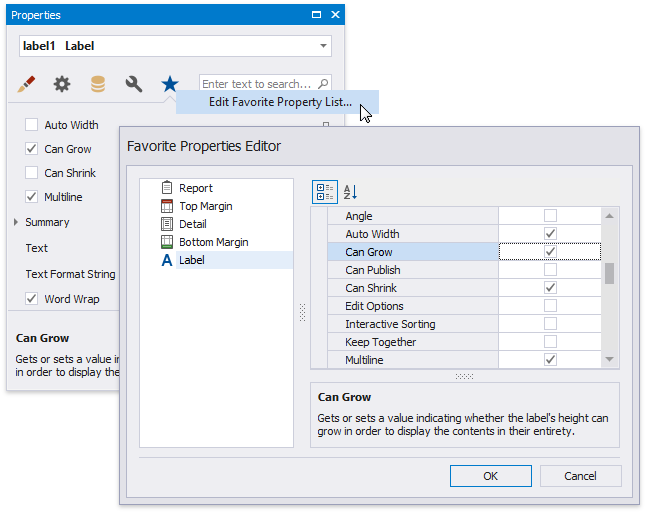
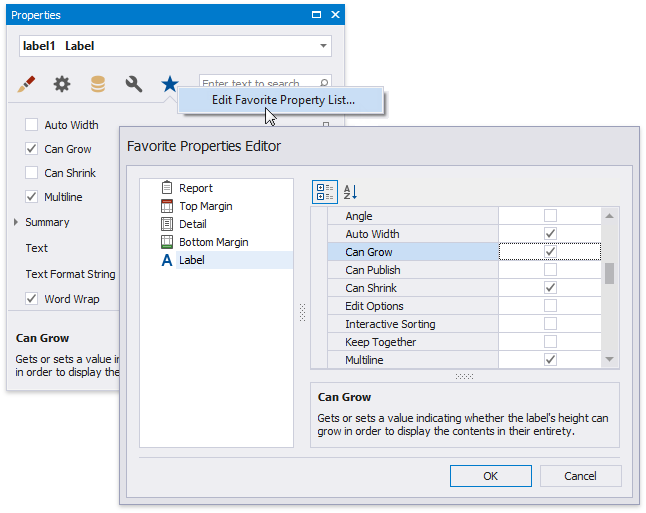
Update description

Changed region(s): [[0.2786, 0.1559, 0.6192, 0.2495], [0.2477, 0.1871, 0.2786, 0.2183]]

diff --git a/interface-elements-for-desktop/articles/report-designer/report-designer-for-winforms/report-designer-tools/ui-panels/property-grid-non-tabbed-view.md b/interface-elements-for-desktop/articles/report-designer/report-designer-for-winforms/report-designer-tools/ui-panels/property-grid-non-tabbed-view.md
@@ -7,9 +7,18 @@ The **Property Grid** allows you to access and customize report/report element s
 
 ![WinFormsPropertyGrid-Tabs](../../../../../images/eurd-win-property-grid-nontabbed-view.png)
 
-See the [Property Grid (Tabbed View)](property-grid-tabbed-view.md) topic if your Property Grid arranges properties in tabs.
+## Select a Report Element
 
-![WinFormsPropertyGrid-Tabs](../../../../../images/eurd-win-PropertyGrid-Tabs.png)
+Perform one of the following actions to select an element and show its properties in the Property Grid:
+
+* Select an element in the drop-down list at the top of the Property Grid.
+
+	![WinFormsPropertyGrid-SelectControl](../../../../../images/eurd-win-PropertyEditor-SelectControl.png)
+
+* Click an element in the [design surface](../../first-look-at-the-report-designer.md).
+* Select an element in the [Report Explorer](report-explorer.md).
+
+## Categorized and Alphabetical Modes
 
 You can switch between categorized and alphabetical modes.
 
@@ -23,16 +32,9 @@ You can switch between categorized and alphabetical modes.
 
     ![Alphabetical-Mode](../../../../../images/eurd-win-propertygrid-nontabbed-alphabetical.png)
 
-## Select a Report Element
+See the [Property Grid (Tabbed View)](property-grid-tabbed-view.md) topic if your Property Grid arranges properties in tabs.
 
-Perform one of the following actions to select an element and show its properties in the Property Grid:
-
-* Select an element in the drop-down list at the top of the Property Grid.
-
-	![WinFormsPropertyGrid-SelectControl](../../../../../images/eurd-win-PropertyEditor-SelectControl.png)
-
-* Click an element in the [design surface](../../first-look-at-the-report-designer.md).
-* Select an element in the [Report Explorer](report-explorer.md).
+![WinFormsPropertyGrid-Tabs](../../../../../images/eurd-win-PropertyGrid-Tabs.png)
 
 ## Favorite Properties
 
@@ -40,7 +42,7 @@ The **Favorites** tab displays favorite or most frequently used properties.
 
 ![WinFormsPropertyGrid-Tabs](../../../../../images/eurd-win-PropertyGrid-Favorites-nontabbed.png)
 
-Click the **Edit Favorite Properties** context menu item to set up the favorite properties. In the invoked **Favorite Properties Editor**, enable check boxes for the controls' properties to include these properties into the favorite list.
+Click the **Edit Favorite Property List** context menu item to set up the favorite properties. Enable check boxes for the controls' properties in the invoked **Favorite Properties Editor** to include these properties into the favorite list.
 
 ![](../../../../../images/eurd-win-favorite-properties-editor-nontabbed.png)
 
@@ -76,7 +78,7 @@ Do the following to use the Magnifier:
 
 	![](../../../../../images/eurd-win-magnifier-set-color.png)
 
-Right click to cancel the Magnifier mode.
+Right click or press Esc to cancel the Magnifier mode.
 
 ## Specify Expressions
 
@@ -104,5 +106,3 @@ Click a property's marker and choose **Reset** to reset the property value.
 The Property Grid's search box allows you to search for a property. When you type within the search box, the Property Grid automatically creates a search criteria based on the entered text and filters the list of available properties.
 
 ![WinFormsPropertyGrid-Search](../../../../../images/eurd-win-PropertyGrid-Search-nontabbed.png)
-
-If you type two substrings separated by a space character, these substrings are considered as individual conditions combined by the OR logical operator. To find properties that contain both substrings (to use the AND logical operator), enclose the entered string in quotation marks.

diff --git a/interface-elements-for-desktop/articles/report-designer/report-designer-for-winforms/report-designer-tools/ui-panels/property-grid-tabbed-view.md b/interface-elements-for-desktop/articles/report-designer/report-designer-for-winforms/report-designer-tools/ui-panels/property-grid-tabbed-view.md
@@ -34,7 +34,7 @@ The **Favorites** tab displays favorite or most frequently used properties.
 
 ![WinFormsPropertyGrid-Tabs](../../../../../images/eurd-win-PropertyGrid-Favorites.png)
 
-Click the **Edit Favorite Properties** context menu item to set up the favorite properties. In the invoked **Favorite Properties Editor**, enable check boxes for the controls' properties to include these properties into the favorite list.
+Click the **Edit Favorite Property List** context menu item to set up the favorite properties. Enable check boxes for the controls' properties in the invoked **Favorite Properties Editor** to include these properties into the favorite list.
 
 ![](../../../../../images/eurd-win-favorite-properties-editor.png)
 
@@ -70,7 +70,7 @@ Do the following to use the Magnifier:
 
 	![](../../../../../images/eurd-win-magnifier-set-color.png)
 
-Right click to cancel the Magnifier mode.
+Right click or press Esc to cancel the Magnifier mode.
 
 ## Specify Expressions
 
@@ -98,5 +98,3 @@ Click a property's marker and choose **Reset** to reset the property value.
 The Property Grid's search box allows you to search for a property. When you type within the search box, the Property Grid automatically creates a search criteria based on the entered text and filters the list of available properties.
 
 ![WinFormsPropertyGrid-Search](../../../../../images/eurd-win-PropertyGrid-Search.png)
-
-If you type two substrings separated by a space character, these substrings are considered as individual conditions combined by the OR logical operator. To find properties that contain both substrings (to use the AND logical operator), enclose the entered string in quotation marks.
